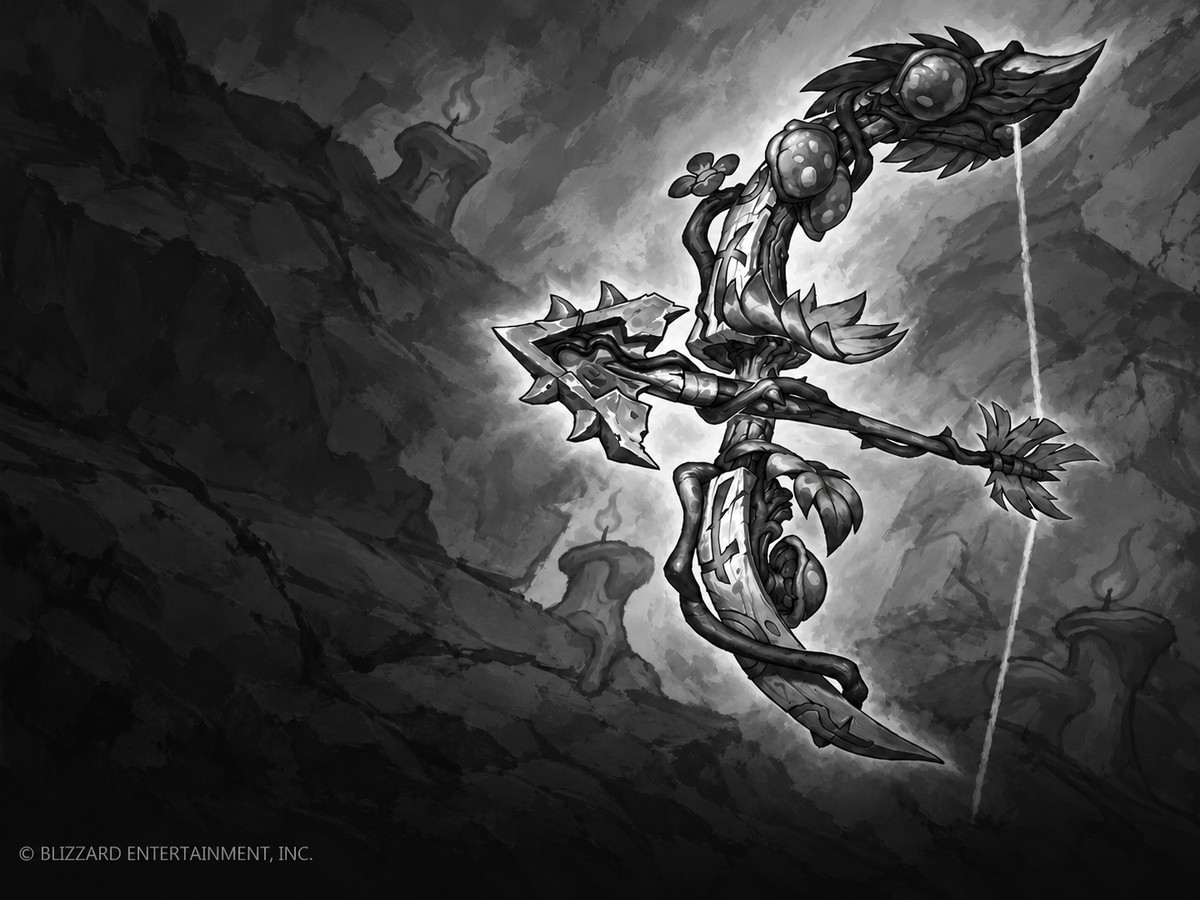
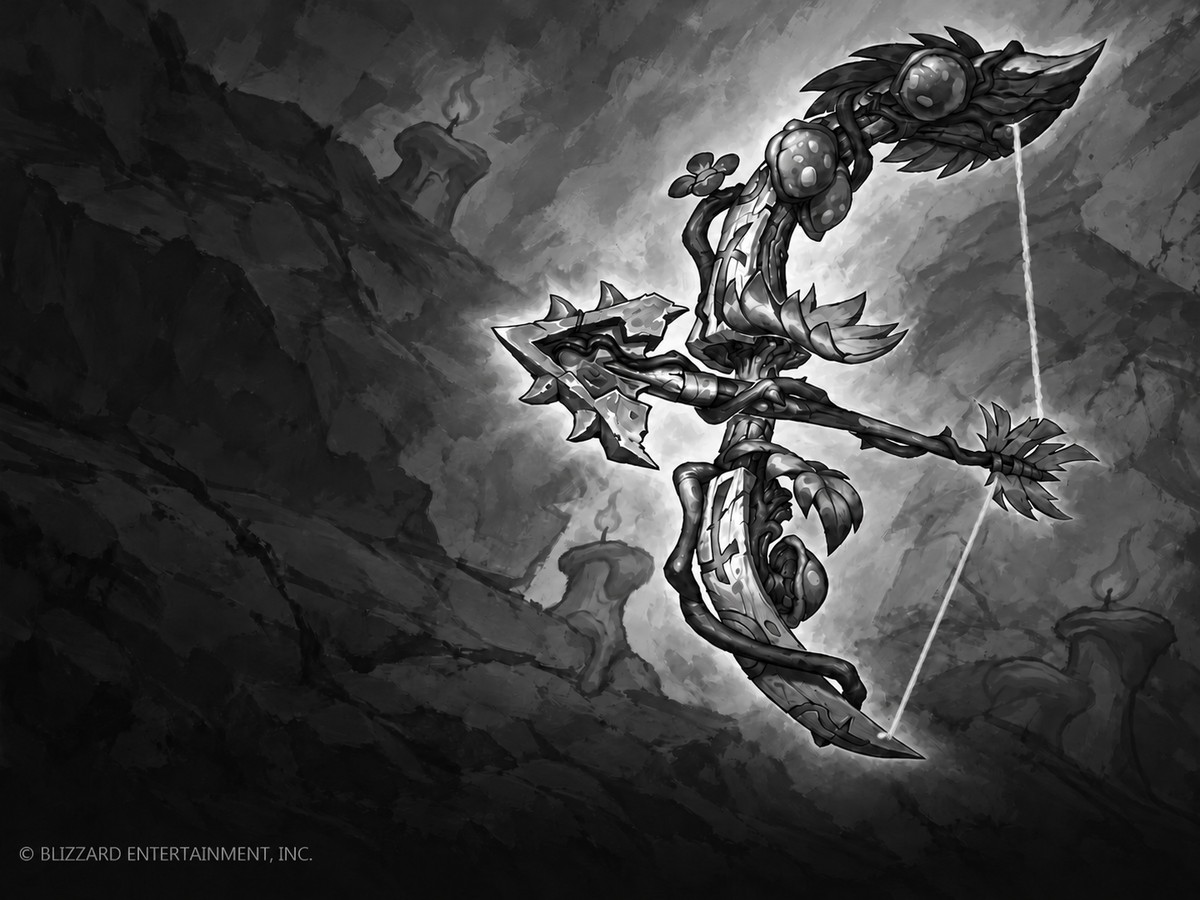
Connect Rhokdelar bowstring to the lower limb

diff --git a/CLAUDE.md b/CLAUDE.md
@@ -360,3 +360,5 @@ Player-chosen style options in Settings. Karl's ideas: how Forever goals look (a
 - Approved five banners and taller blend (Karl / Codex, 2026-10-08): Karl approved the review and agreed to extend artwork about 100px lower with a longer bottom fade. Installed all five additional-goals masters via tools/artwork.py FINAL_BANNERS and Core.lua paths/aspects/preprocessed: now 22 mapped goals, 16 approved monochrome masters. B:Fit height is previous 0.92-scaled height plus 100px, still cropped to panel height minus 8px; width/top-right anchor unchanged. Bottom transparent fade is min(240px, 55% shown height), using existing 64 smoothstep-weighted strips; no dark veil or baked gradient. Lua checks pass in Era and Forever, including height, bounds, crop, fade and all goal mappings. Synced Era test copy and pushed main. New BLP textures require a full game restart; live visual approval of taller layout still needed.
 
 - Actual asset-height clarification (Karl / Codex, 2026-10-08): Karl meant 1200x900 actual final image assets, with 100px downward extension and baked soft dark bottom gradient similar to existing left darkening. Explicitly selected ALL 16 final banners. New imagegen versions saved separately in Media/final-images/tall-1200x900, exact 1200x900 optimized JPEG; existing 1200x800 masters/runtime BLPs untouched. Two preview sheets and prompt/provenance in reports/image-tests/taller-banner-*. Painted details may vary; not pixel-exact extensions. Await review before runtime installation (compiler currently asserts 1200x800 and Core aspects remain 1.5; new assets need 4/3). Reverted mistaken rendering +100px and min(240,55%) fade to previous 0.92 height and min(140,35%) transparent fade. Era/Forever checks pass, original bounds/reveal behavior intact. This supersedes the layout extension in the previous entry; five banner mappings remain installed. Core correction synced to Era; all assets/notes pushed main.
+
+- Rhok'delar string correction (Karl / Codex, 2026-10-08): Karl liked all 16 taller assets but pointed out the lower bowstring did not reach the bow's bottom limb. One targeted built-in image edit connects the lower segment to the limb and removes the dangling string. Saved over tall-1200x900/rhokdelar.jpg at exact 1200x900, updated provenance and first preview sheet; old version remains in Git history, original 1200x800 master untouched. Other fifteen taller assets are visually approved; corrected bow shown for confirmation. Runtime 3:2 textures remain unchanged pending installation of the taller set.

diff --git a/Media/final-images/tall-1200x900/README.md b/Media/final-images/tall-1200x900/README.md
@@ -8,4 +8,4 @@ Generated outputs were technically resized to exact 1200 x 900 (4:3) and optimiz
 
 The 16 files are named by goal id. Source/generated paths and prompt are recorded in reports/image-tests/taller-banner-pass.json; local generated-file paths are provenance, while the JPEG masters in this folder are portable. Preview sheets: reports/image-tests/taller-banner-review-1.jpg and taller-banner-review-2.jpg.
 
-Pending visual review before runtime installation. To install later, point FINAL_BANNERS to these files, support 1200 x 900 in the compiler's validation, and use 4:3 source aspect for these 16 goals rather than the current 3:2. Keep runtime rendering correction separate: the mistaken +100px layout height and enlarged procedural fade have been undone; the previously approved bounds/top-right anchor and transparent edge fade remain.
+Karl approved the overall set and requested one correction to Rhok'delar: its lower bowstring was dangling past the bottom limb rather than connecting. A targeted image edit now connects the string to the lower limb; its corrected preview awaits confirmation. The other fifteen are visually approved. Runtime installation remains pending. To install later, point FINAL_BANNERS to these files, support 1200 x 900 in the compiler's validation, and use 4:3 source aspect for these 16 goals rather than the current 3:2. Keep runtime rendering correction separate: the mistaken +100px layout height and enlarged procedural fade have been undone; the previously approved bounds/top-right anchor and transparent edge fade remain.
